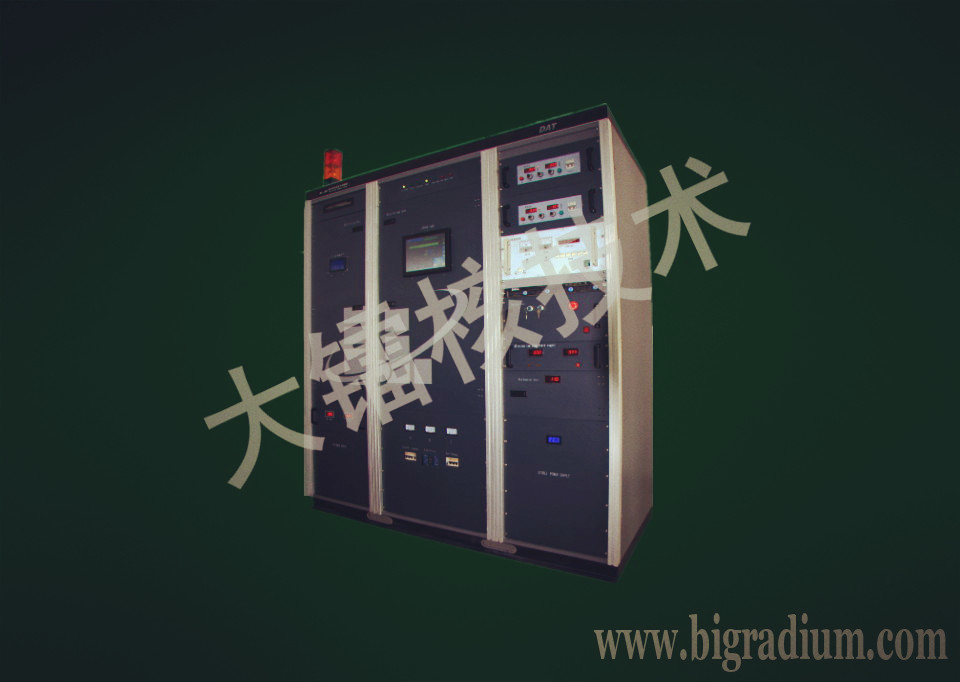
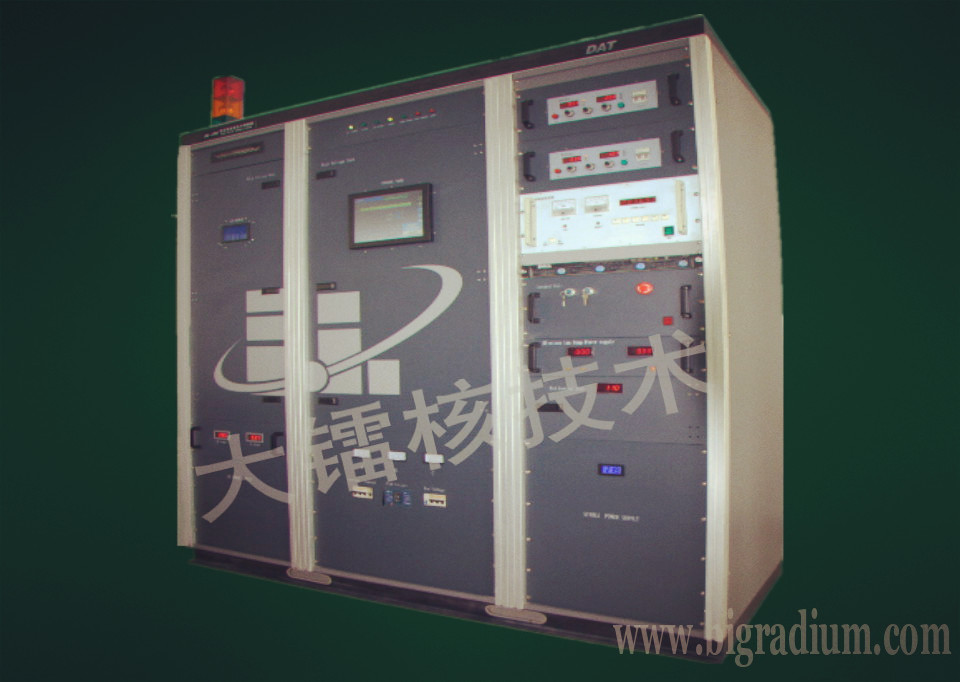
change a picture and add a link to the footers

diff --git a/index.html b/index.html
@@ -206,7 +206,7 @@
 							data-y="222"
 							data-speed="300" 
 							data-start="800" 
-							data-easing="easeOutExpo">电子直线加速器智能制造
+							data-easing="easeOutExpo">电子直线加速器专业制造
 							</div>
 
 							<div class="tp-caption lfb"
@@ -506,7 +506,7 @@
 
 						<!-- FOOTER CONTACT INFO -->
 						<div class="column col-md-4">
-							<h3>联系我们 CONTACT</h3>
+							<h3><a href="contact-us.html">联系我们 CONTACT US</a></h3>
 							<address class="font-opensans">
 								<ul>
 									<li class="footer-sprite address">

diff --git a/acircul-temp.html b/acircul-temp.html
@@ -314,7 +314,7 @@
 						
 						<!-- FOOTER CONTACT INFO -->
 						<div class="column col-md-4">
-							<h3>联系我们 CONTACT</h3>
+							<h3><a href="contact-us.html">联系我们 CONTACT US</a></h3>
 							<address class="font-opensans">
 								<ul>
 									<li class="footer-sprite address">

diff --git a/blank.html b/blank.html
@@ -372,7 +372,7 @@
 						
 						<!-- FOOTER CONTACT INFO -->
 						<div class="column col-md-4">
-							<h3>联系我们 CONTACT</h3>
+							<h3><a href="contact-us.html">联系我们 CONTACT US</a></h3>
 							<address class="font-opensans">
 								<ul>
 									<li class="footer-sprite address">

diff --git a/brief-intro.html b/brief-intro.html
@@ -309,7 +309,7 @@
 						
 						<!-- FOOTER CONTACT INFO -->
 						<div class="column col-md-4">
-							<h3>联系我们 CONTACT</h3>
+							<h3><a href="contact-us.html">联系我们 CONTACT US</a></h3>
 							<address class="font-opensans">
 								<ul>
 									<li class="footer-sprite address">

diff --git a/contact-us-error.html b/contact-us-error.html
@@ -354,7 +354,7 @@
 						
 						<!-- FOOTER CONTACT INFO -->
 						<div class="column col-md-4">
-							<h3>联系我们 CONTACT</h3>
+							<h3><a href="contact-us.html">联系我们 CONTACT US</a></h3>
 							<address class="font-opensans">
 								<ul>
 									<li class="footer-sprite address">

diff --git a/contact-us-thankyou.html b/contact-us-thankyou.html
@@ -354,7 +354,7 @@
 						
 						<!-- FOOTER CONTACT INFO -->
 						<div class="column col-md-4">
-							<h3>联系我们 CONTACT</h3>
+							<h3><a href="contact-us.html">联系我们 CONTACT US</a></h3>
 							<address class="font-opensans">
 								<ul>
 									<li class="footer-sprite address">

diff --git a/contact-us.html b/contact-us.html
@@ -382,7 +382,7 @@
 						
 						<!-- FOOTER CONTACT INFO -->
 						<div class="column col-md-4">
-							<h3>联系我们 CONTACT</h3>
+							<h3><a href="contact-us.html">联系我们 CONTACT US</a></h3>
 							<address class="font-opensans">
 								<ul>
 									<li class="footer-sprite address">

diff --git a/dev-history.html b/dev-history.html
@@ -429,7 +429,7 @@
 						
 						<!-- FOOTER CONTACT INFO -->
 						<div class="column col-md-4">
-							<h3>联系我们 CONTACT</h3>
+							<h3><a href="contact-us.html">联系我们 CONTACT US</a></h3>
 							<address class="font-opensans">
 								<ul>
 									<li class="footer-sprite address">

diff --git a/eaccel.html b/eaccel.html
@@ -319,7 +319,7 @@
 						
 						<!-- FOOTER CONTACT INFO -->
 						<div class="column col-md-4">
-							<h3>联系我们 CONTACT</h3>
+							<h3><a href="contact-us.html">联系我们 CONTACT US</a></h3>
 							<address class="font-opensans">
 								<ul>
 									<li class="footer-sprite address">

diff --git a/egun-power.html b/egun-power.html
@@ -264,7 +264,7 @@
 						
 						<!-- FOOTER CONTACT INFO -->
 						<div class="column col-md-4">
-							<h3>联系我们 CONTACT</h3>
+							<h3><a href="contact-us.html">联系我们 CONTACT US</a></h3>
 							<address class="font-opensans">
 								<ul>
 									<li class="footer-sprite address">

diff --git a/egun.html b/egun.html
@@ -326,7 +326,7 @@
 						
 						<!-- FOOTER CONTACT INFO -->
 						<div class="column col-md-4">
-							<h3>联系我们 CONTACT</h3>
+							<h3><a href="contact-us.html">联系我们 CONTACT US</a></h3>
 							<address class="font-opensans">
 								<ul>
 									<li class="footer-sprite address">

diff --git a/enterpr.html b/enterpr.html
@@ -253,7 +253,7 @@
 						
 						<!-- FOOTER CONTACT INFO -->
 						<div class="column col-md-4">
-							<h3>联系我们 CONTACT</h3>
+							<h3><a href="contact-us.html">联系我们 CONTACT US</a></h3>
 							<address class="font-opensans">
 								<ul>
 									<li class="footer-sprite address">
